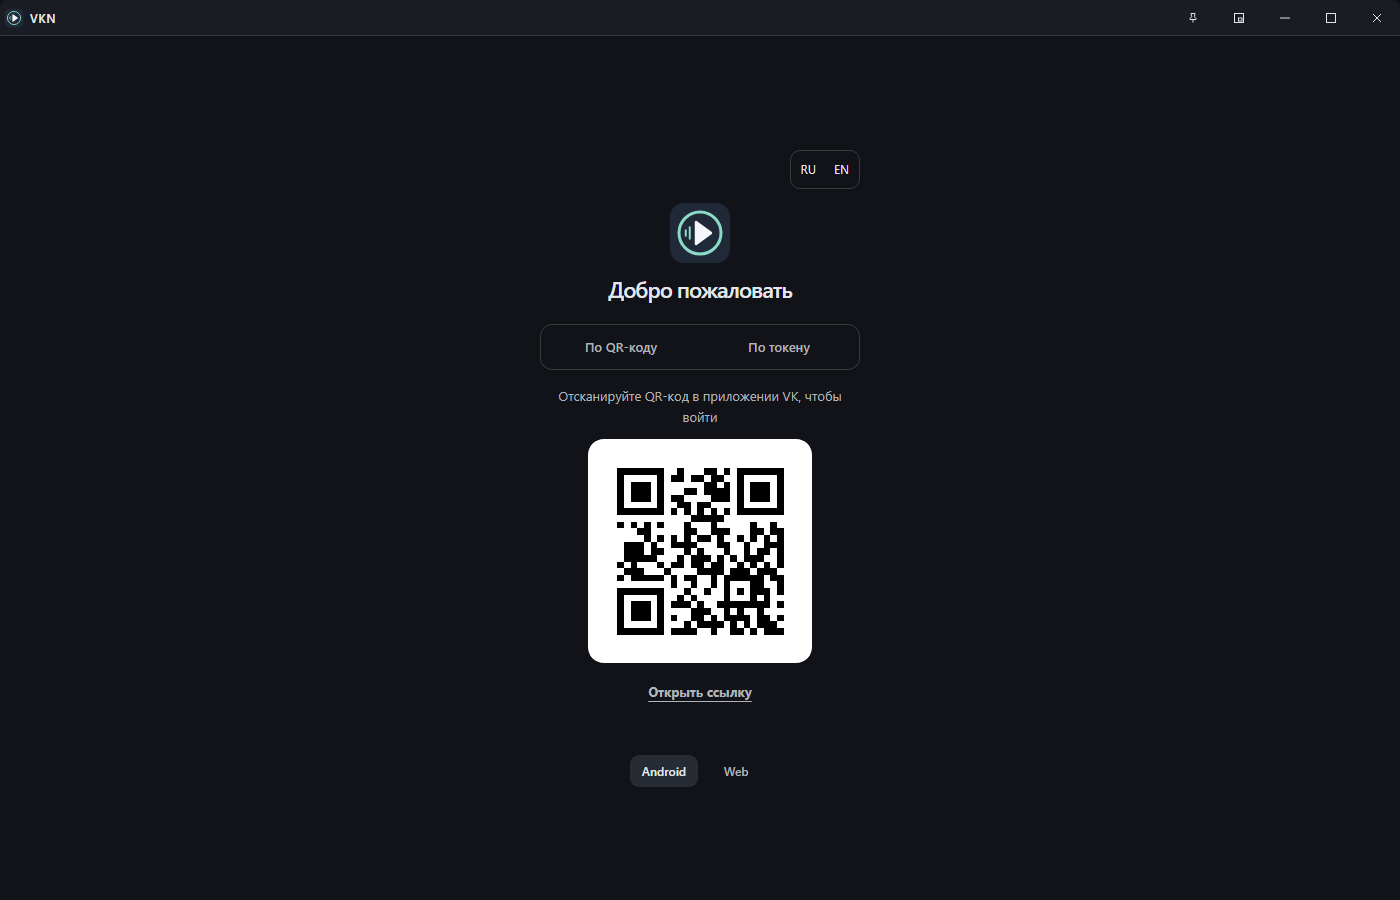
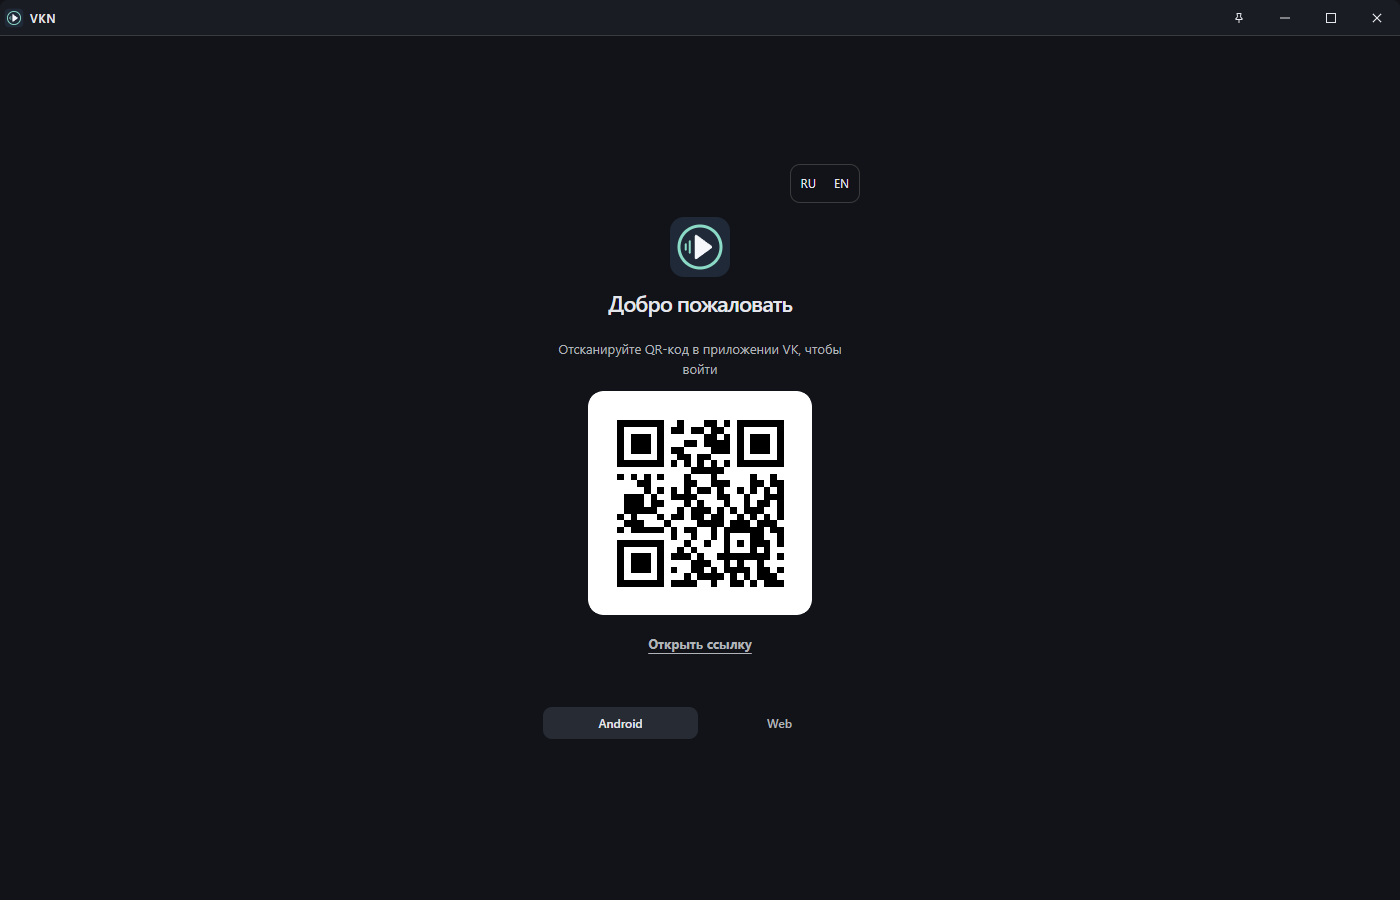
Обновить политику и инструкцию входа VKN

Changed region(s): [[0.3686, 0.2178, 0.6143, 0.9022], [0.5529, 0.1556, 0.6143, 0.2178]]

diff --git a/PRIVACY.md b/PRIVACY.md
@@ -1,6 +1,6 @@
 # Данные и приватность VKN
 
-Обновлено: 15 ноября 2026 года. Документ описывает VKN для Windows, Linux, macOS и Android. Доступность и ограничения сборок указаны в README. Автор проекта: gr4shin.
+Обновлено: 23 ноября 2026 года. Документ описывает VKN для Windows, Linux, macOS, Android и iOS. Доступность и ограничения сборок указаны в README. Автор проекта: gr4shin.
 
 Перед запуском входа и проигрывателя VKN предлагает ознакомиться с редакцией политики, включённой в сборку. ID этой редакции, её текст и дата явного согласия сохраняются только на устройстве, отдельно от аккаунтов VK; автору они не отправляются. ID зависит от текста политики, а не от версии плеера. Если в новой сборке ID изменился, приложение показывает добавленные и удалённые абзацы, предоставляет полный текст и запрашивает согласие снова. Открытие ссылки, отказ и закрытие окна не считаются согласием. Согласие не включает запись диагностики или фоновую загрузку обновлений: эти настройки выбираются отдельно. Просмотр политики доступен в настройках без изменения согласия.
 
@@ -16,6 +16,8 @@ VKN не отправляет автору аналитику использов
 
 Участие OpenAI Codex в разработке не добавляет сетевые обращения к OpenAI в установленное приложение.
 
+На iOS VKN хранит сессию VK в системной Связке ключей с привязкой к устройству. Выбор дополнительного пароля VKN доступен в настольном приложении.
+
 ## Куда направляются сетевые запросы
 
 | Получатель | Когда | Какие сведения передаются и зачем |
@@ -29,7 +31,7 @@ VKN не отправляет автору аналитику использов
 | VK | При включении отдельной настройки отправки истории прослушиваний для аккаунта VK. По умолчанию выключено | Идентификатор музыкального трека, события начала и окончания воспроизведения, начальная позиция, длительность прослушивания и сведения о сеансе воспроизведения. Для записи прослушиваний в историю VK |
 | Приложения VKN в локальной сети | Только при включении VKN Connect (бета) | Обнаружение устройств, имя устройства и ID аккаунта, подтверждение связи, очередь и состояние воспроизведения, команды управления. Токен VK и потоковые ссылки не передаются; проигрывающее приложение обращается к VK со своей сессией |
 | Браузер телефона в локальной сети | Только при включении отдельного веб-пульта | Состояние плеера, метаданные трека, обложка, доступный текст песни и команды управления. Страницу обслуживает сам VKN на компьютере; звук остаётся на компьютере |
-| Сайт, который пользователь открывает в браузере | Переход по внешней ссылке, в том числе ссылка справки входа на `vkhost.github.io` | Браузер обращается к выбранному сайту. Его обработка данных определяется самим сайтом |
+| Сайт, который пользователь открывает в браузере | Переход по внешней ссылке | Браузер обращается к выбранному сайту. Его обработка данных определяется самим сайтом |
 
 VK и другие сетевые получатели могут видеть IP-адрес и технические заголовки запроса, а VK связывает авторизованные действия с аккаунтом. Отсутствие аналитики автора не означает отсутствие обработки данных со стороны этих сервисов. Доступность сетевых функций определяется VK, аккаунтом и выбранными внешними сервисами.
 
@@ -37,7 +39,7 @@ VK и другие сетевые получатели могут видеть I
 
 | Данные | Хранение и назначение |
 | --- | --- |
-| Сессия VK | `auth-state.json` в локальном профиле приложения. В текущем формате сессия шифруется средствами Electron safeStorage с системным провайдером, чтобы восстанавливать вход и обновлять токен |
+| Сессия VK | `auth-state.json` в локальном профиле приложения. На компьютере токены и cookies для продления Web-входа хранятся зашифрованными. В режиме с паролем системное хранилище дополнительно защищает данные, уже зашифрованные паролем |
 | Настройки | Локальные файлы настроек и браузерное хранилище встроенного интерфейса: тема, звук, приватность интеграций, кэш и другие параметры |
 | Очередь и навигация | Локальный снимок треков, позиции, режима, вкладок и закреплений, чтобы продолжать предыдущий сеанс |
 | Снимки страниц и библиотека | IndexedDB и локальные снимки API, чтобы показывать ранее загруженные данные и работать при временном отсутствии сети |
@@ -50,6 +52,8 @@ VK и другие сетевые получатели могут видеть I
 Локальный профиль находится в каталоге данных приложения внутри профиля вашей ОС (`userData` Electron). Точное имя и расположение зависят от сборки и системы; MP3 и экспортированные файлы находятся там, где их сохранил пользователь.
 
 На Windows/Linux каждый аккаунт использует отдельную базу библиотеки, каталог аудио и обложек со своими лимитами, настройки, историю и доверие Connect. До определения аккаунта используется нейтральная гостевая область. При смене аккаунта прежние подключения Connect и веб-пульта не передаются новому владельцу. При обновлении доказанно принадлежащие аккаунту старые данные копируются в его область; источники сохраняются для безопасного перехода. Старые обложки и журналы без известного владельца автоматически не приписываются одному аккаунту.
+
+На компьютере способ защиты выбирается перед входом по QR и применяется ко всем сохранённым аккаунтам этого профиля. Системный режим открывает аккаунты автоматически. На Windows DPAPI защищает данные от других пользователей системы, но программы под той же учётной записью могут получить к ним доступ. На macOS доступ к ключу зависит от разрешений Связки ключей и подписи приложения. На Linux защита зависит от системного хранилища ключей. Режим с дополнительным паролем требует разблокировки при запуске VKN. Пароль не сохраняется и не отправляется. Пока действует сессия Web-входа, VKN может получать новый токен у VK без повторного сканирования QR-кода.
 
 Шифрование сессии не распространяется на весь профиль. Кэш, снимки страниц, настройки, статистика и скачанные MP3 не имеют общего шифрования VKN. Пользователь устройства, вредоносное ПО или программа с соответствующим доступом могут прочитать эти данные. Системная защита сессии также не защищает от всех угроз внутри уже доступного пользовательского сеанса. При недоступности защищённого системного хранилища новая сессия не сохраняется открытым текстом.
 

diff --git a/README.md b/README.md
@@ -46,7 +46,8 @@
 - VK Микс, очередь с историей, перемешивание и восстановление сеанса.
 - Большой плеер, отображение доступных текстов песен, управление мультимедийными кнопками.
 - Эквалайзер на 10 полос, пресеты, скорость, плавные переходы и таймер сна.
-- Сохранение доступных треков для офлайн-прослушивания и экспорт в MP3.
+- Сохранение доступных треков для офлайн-прослушивания и экспорт в MP3. На компьютере можно сохранить один трек, несколько выделенных или все «Мои треки». При повторном сохранении докачиваются недостающие треки.
+- В «Моих треках» на компьютере можно выбрать жанр, если VK предлагает фильтры для библиотеки.
 - Светлая, тёмная и AMOLED темы, настройки внешнего вида и компактное окно.
 - Локальная статистика прослушиваний для самого пользователя.
 - Дополнительные интеграции: Discord Rich Presence и трансляция трека в VK.
@@ -133,7 +134,7 @@ Connect связывает настольный VKN с Android и iPhone; пер
 
 Скачайте APK и разрешите установку из выбранного источника, когда Android запросит разрешение.
 
-На Android вход выполняется через кнопку открытия VK или токен, громкость регулируется системой. «Хранить на устройстве» сохраняет плейлист или альбом внутри офлайн-библиотеки VKN. «Скачать файлы в папку» создаёт отдельные аудиофайлы. Такие загрузки сохраняются в системную папку `Music/VKN`: исходный MP3 — как MP3, HLS/AAC — как M4A. Очередь поддерживает прогресс, отмену, повтор и паузу коллекции. Интеграция Discord и перекодирование в MP3 доступны в desktop. Прежний тестовый APK имел другой ID: релизный VKN устанавливается отдельно и требует нового входа.
+На Android вход выполняется по QR-коду. Кнопка открытия ссылки позволяет продолжить вход на том же устройстве. Громкость регулируется системой. «Хранить на устройстве» сохраняет плейлист или альбом внутри офлайн-библиотеки VKN. «Скачать файлы в папку» создаёт отдельные аудиофайлы. Такие загрузки сохраняются в системную папку `Music/VKN`: исходный MP3 — как MP3, HLS/AAC — как M4A. Очередь поддерживает прогресс, отмену, повтор и паузу коллекции. Интеграция Discord и перекодирование в MP3 доступны в desktop. Прежний тестовый APK имел другой ID: релизный VKN устанавливается отдельно и требует нового входа.
 
 </details>
 
@@ -210,6 +211,8 @@ Connect связывает настольный VKN с Android и iPhone; пер
 
 <details>
 <summary>Вход по QR-коду</summary>
+
+На компьютере перед показом QR можно выбрать защиту системой или защиту системой и паролем. В первом случае VKN открывает сохранённый вход автоматически. Во втором при запуске VKN нужно ввести пароль, который защищает все сохранённые аккаунты профиля. Можно выбрать профиль VK Android или Web. В режиме Web VKN продлевает вход, пока действует сессия VK.
 
 ![Экран входа по QR-коду с демонстрационным кодом](assets/screenshots/login-qr.png)
 
